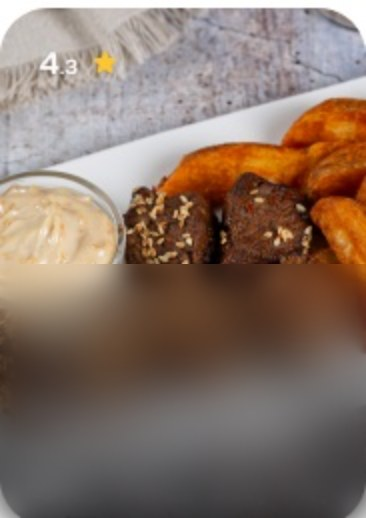
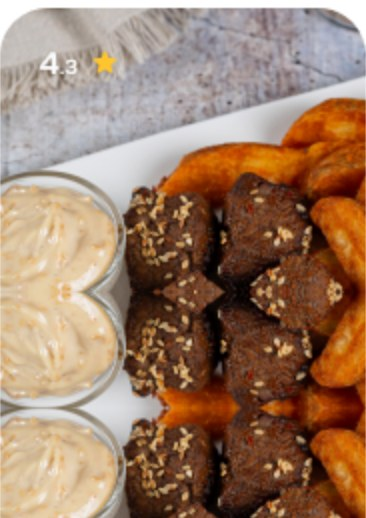
Meal Selector feel pass: living gauge, dynamic steppers, photo fix
Rashid's feedback round:
- Gauge gradient now spans the fill (yellow rides the leading edge, per the
  Figma states) with a breathing tip glow + shimmer sweep; solid at 100%
- Stray dot in the QTY pill fixed (round-linecap zero-dash artifact)
- Collapsed badge / card tap re-expands the stepper for dynamic removal
- Completing a category auto-scrolls to the next
- Dish photos: blur patch replaced with mirror-extended bottoms under the
  dark title gradient, 2x res
- Completion: check circle draws itself with confetti, then widens into Next

diff --git a/meal-select/index.html b/meal-select/index.html
@@ -192,10 +192,13 @@
   /* the check draws itself (pathLength 1, bezier .5,0,.5,1) then un-draws */
   .qty .q-check { position: absolute; left: 50%; top: 9px; transform: translateX(-50%);
     width: 15.5px; height: 11.5px; pointer-events: none; }
-  .qty .q-check path { stroke-dasharray: 1 1; stroke-dashoffset: 1;
-    transition: stroke-dashoffset .455s cubic-bezier(.5,0,.5,1); }
-  .qty .q-check.draw path { stroke-dashoffset: 0; }
-  .qty .q-check.undraw path { stroke-dashoffset: -1; }
+  /* round linecaps paint a dot even at zero dash length — keep the path
+     invisible until the draw actually starts */
+  .qty .q-check path { stroke-dasharray: 1 1; stroke-dashoffset: 1; opacity: 0;
+    transition: stroke-dashoffset .455s cubic-bezier(.5,0,.5,1), opacity .05s; }
+  .qty .q-check.draw path { stroke-dashoffset: 0; opacity: 1; }
+  .qty .q-check.undraw path { stroke-dashoffset: -1; opacity: 0;
+    transition: stroke-dashoffset .455s cubic-bezier(.5,0,.5,1), opacity .1s .35s; }
 
   .card .name { align-self: stretch; padding: 6px 0;
     font: 600 14px/20px 'Urbane Rounded', sans-serif; color: #f9f9f9; }
@@ -222,15 +225,29 @@
     mix-blend-mode: color-burn; }
   .navigator .glassbase .darken { position: absolute; inset: 0; background: #f7f7f7;
     mix-blend-mode: darken; }
-  /* the blurred orangey filler: full-width gradient clipped by an animated-width
-     window with a feathered leading edge (mask), colors never stretch */
+  /* the gauge filler: the red->yellow gradient spans the FILL itself (Figma —
+     yellow always rides the leading edge), with a feathered mask, a breathing
+     glow at the tip, and a shimmer sweep for the live-shader feel */
   .gauge-clip { position: absolute; left: 0; top: 1px; height: 68px; width: 24.73%;
     border-radius: 65px 0 0 65px; overflow: hidden; pointer-events: none;
-    -webkit-mask-image: linear-gradient(to right, #000 calc(100% - 36px), transparent);
-    mask-image: linear-gradient(to right, #000 calc(100% - 36px), transparent);
+    -webkit-mask-image: linear-gradient(to right, #000 calc(100% - 34px), transparent);
+    mask-image: linear-gradient(to right, #000 calc(100% - 34px), transparent);
     transition: width .7s cubic-bezier(.3,.8,.3,1); }
-  .gauge-clip .gauge { position: absolute; left: 0; top: 0; width: 358px; height: 68px;
-    background: linear-gradient(90deg, #ee2023 0%, #f57813 74.5%, #fdd702 100%); }
+  .gauge-clip .gauge { position: absolute; inset: 0;
+    background: linear-gradient(90deg, #ee2023 0%, #f57813 62%, #fdd702 96%); }
+  .gauge-clip .gauge::before { content: ''; position: absolute; inset: 0;
+    background: linear-gradient(105deg, transparent 32%, rgba(255,255,255,.28) 50%, transparent 68%);
+    background-size: 250% 100%; animation: gshimmer 2.8s linear infinite; }
+  @keyframes gshimmer { from { background-position: 210% 0; } to { background-position: -110% 0; } }
+  .gauge-clip .tip { position: absolute; right: -26px; top: 50%; width: 110px; height: 110px;
+    transform: translateY(-50%); border-radius: 50%;
+    background: radial-gradient(circle, rgba(253,215,2,.95) 0%, rgba(253,215,2,.35) 42%, transparent 70%);
+    filter: blur(6px); animation: gbreathe 1.9s ease-in-out infinite; }
+  @keyframes gbreathe {
+    0%, 100% { opacity: .65; transform: translateY(-50%) scale(.92); }
+    50% { opacity: 1; transform: translateY(-50%) scale(1.08); } }
+  .gauge-clip.full { -webkit-mask-image: none; mask-image: none; }
+  .gauge-clip.full .tip { display: none; }
   .navigator .content { position: absolute; inset: 0; display: flex; align-items: center;
     gap: 15px; padding: 0 32px 0 24px; color: #f9f9f9; }
   .navigator .kcal .lbl { font: 500 9px/10px 'Urbane Rounded', sans-serif; display: block;
@@ -249,7 +266,7 @@
   .navigator .mpair.f { width: 34px; }
 
   /* Saved / Next dock */
-  .dock { position: absolute; right: 8px; top: 8px; width: 107px; height: 53px;
+  .dock { position: absolute; right: 8px; top: 8px; width: 53px; height: 53px;
     border-radius: 47.6px; border: none; cursor: pointer; overflow: hidden;
     display: flex; align-items: center; justify-content: center; gap: 7px;
     color: #f9f9f9; font: 500 14px/1 'Urbane Rounded', sans-serif;
@@ -258,14 +275,18 @@
     -webkit-backdrop-filter: blur(8px); backdrop-filter: blur(8px);
     box-shadow: inset 0 1px 1px rgba(255,255,255,.35), inset 0 0 0 .6px rgba(255,255,255,.3);
     transition: opacity .27s cubic-bezier(.5,0,.5,1),
-      transform .7s cubic-bezier(.26,1.36,.42,1); }
+      transform .7s cubic-bezier(.26,1.36,.42,1),
+      width .45s cubic-bezier(.45,1.45,.8,1); }
   .dock.show { opacity: 1; transform: scale(1) translateY(0); pointer-events: auto; }
+  .dock.wide { width: 107px; }
+  .dock .d-label { white-space: nowrap; opacity: 0; transition: opacity .25s ease .1s; }
+  .dock.wide .d-label { opacity: 1; }
   .dock:active { transform: scale(.94); }
   .dock svg { width: 16px; height: 16px; display: block; }
-  .dock .d-check { width: 15.5px; height: 11.5px; }
-  .dock .d-check path { stroke-dasharray: 1 1; stroke-dashoffset: 1;
-    transition: stroke-dashoffset .45s cubic-bezier(.5,0,.5,1) .15s; }
-  .dock.show .d-check path { stroke-dashoffset: 0; }
+  .dock .d-check { width: 19px; height: 14px; }
+  .dock .d-check path { stroke-dasharray: 1 1; stroke-dashoffset: 1; opacity: 0;
+    transition: stroke-dashoffset .45s cubic-bezier(.5,0,.5,1) .15s, opacity .05s .15s; }
+  .dock.show .d-check path { stroke-dashoffset: 0; opacity: 1; }
   .spark { position: absolute; border-radius: 50%; pointer-events: none; z-index: 40; }
 
   /* ---- mobile dev bar ---- */
@@ -356,7 +377,7 @@
         </div>
         <div class="navigator" id="navigator">
           <div class="glassbase"><div class="burn"></div><div class="darken"></div></div>
-          <div class="gauge-clip" id="gaugeClip"><div class="gauge"></div></div>
+          <div class="gauge-clip" id="gaugeClip"><div class="gauge"></div><div class="tip"></div></div>
           <div class="content">
             <div class="kcal">
               <span class="lbl">Kcal</span>
@@ -512,10 +533,12 @@ function cardTap(key) {
     sel[key] = 1;
     selectSeq(el);
     vibrate(8);
+  } else if (!el.classList.contains('expanded')) {
+    return expand(key);          /* collapsed badge: reopen the stepper first */
   } else if (MODS.tapMode === 'add') {
     return step(key, +1);
   } else {
-    expand(key);
+    armCollapse(key);
   }
   updateAll();
 }
@@ -601,14 +624,17 @@ function totals() {
   return { kcal, p, c, f, count };
 }
 
+const catFullState = {};
 function updateAll(instant) {
   const t = totals();
   const quotaTotal = CATS.reduce((s, c) => s + c.quota, 0);
-  /* category counters + dimming when a quota is full */
+  /* category counters + dimming when a quota is full + advance the scroll */
   CATS.forEach(cat => {
     const of = document.querySelector('[data-of="' + cat.id + '"]');
     if (of) of.textContent = catCount(cat.id) + ' of ' + cat.quota;
-    const full = catCount(cat.id) >= cat.quota;
+    const full = cat.quota > 0 && catCount(cat.id) >= cat.quota;
+    if (full && !catFullState[cat.id] && !instant) scrollToNextCat(cat.id);
+    catFullState[cat.id] = full;
     DISHES[cat.id].forEach((d, i) => {
       const el = cardEls[cat.id + ':' + i];
       if (el) el.classList.toggle('dim', full && !sel[cat.id + ':' + i]);
@@ -623,6 +649,7 @@ function updateAll(instant) {
   const frac = quotaTotal ? Math.min(1, t.count / quotaTotal) : 0;
   gaugeClip.style.width = (GAUGE_BASE + frac * (1 - GAUGE_BASE)) * 100 + '%';
   gaugeClip.style.borderRadius = frac >= 1 ? '65px' : '65px 0 0 65px';
+  gaugeClip.classList.toggle('full', frac >= 1);
   /* completion: Saved moment -> Next */
   const done = quotaTotal > 0 && t.count >= quotaTotal;
   if (done && !completed) { completed = true; celebrate(); }
@@ -644,25 +671,23 @@ function animateKcal(target, instant) {
 }
 
 function celebrate() {
-  /* the done text: Saved with a self-drawing check, confetti, then Next pops */
-  dock.innerHTML = '<svg class="d-check" viewBox="0 0 15.5 11.5" fill="none"><path d="M1.25 6.05L5.38636 10.25L14.25 1.25" pathLength="1" stroke="#fff" stroke-width="2.5" stroke-linecap="round" stroke-linejoin="round"/></svg><span>Saved</span>';
+  /* done: an animated check circle draws itself with confetti, then the
+     circle widens into the Next button */
+  dock.classList.remove('wide');
+  dock.innerHTML = '<svg class="d-check" viewBox="0 0 15.5 11.5" fill="none"><path d="M1.25 6.05L5.38636 10.25L14.25 1.25" pathLength="1" stroke="#fff" stroke-width="2.5" stroke-linecap="round" stroke-linejoin="round"/></svg>';
   dock.onclick = null;
   dock.classList.add('show');
   confetti();
   vibrate([14, 40, 22]);
   setTimeout(() => {
     if (!completed) return;
-    dock.classList.remove('show');
-    setTimeout(() => {
-      if (!completed) return;
-      dock.innerHTML = '<span>Next</span>' + ICON.arrow;
-      dock.onclick = nextTapped;
-      dock.classList.add('show');
-    }, 250);
-  }, 1600);
+    dock.innerHTML = '<span class="d-label" style="display:flex;align-items:center;gap:7px">Next ' + ICON.arrow + '</span>';
+    dock.classList.add('wide');
+    dock.onclick = nextTapped;
+  }, 1500);
 }
 
-function hideDock() { dock.classList.remove('show'); dock.onclick = null; }
+function hideDock() { dock.classList.remove('show', 'wide'); dock.onclick = null; }
 
 function confetti() {
   const nav = document.getElementById('navigator');
@@ -684,6 +709,20 @@ function confetti() {
     ], { duration: 700 + Math.random() * 400, easing: 'cubic-bezier(.2,.6,.4,1)' })
       .onfinish = () => s.remove();
   }
+}
+
+/* a completed category glides the list to the next one */
+function scrollToNextCat(catId) {
+  const visible = CATS.filter(c => c.quota > 0);
+  const idx = visible.findIndex(c => c.id === catId);
+  const next = visible[idx + 1];
+  if (!next) return;
+  const of = document.querySelector('[data-of="' + next.id + '"]');
+  const head = of && of.closest('.cat-head');
+  if (!head) return;
+  setTimeout(() => {
+    scrollArea.scrollTo({ top: head.offsetTop - 78, behavior: 'smooth' });
+  }, 700);
 }
 
 function nextTapped() {
